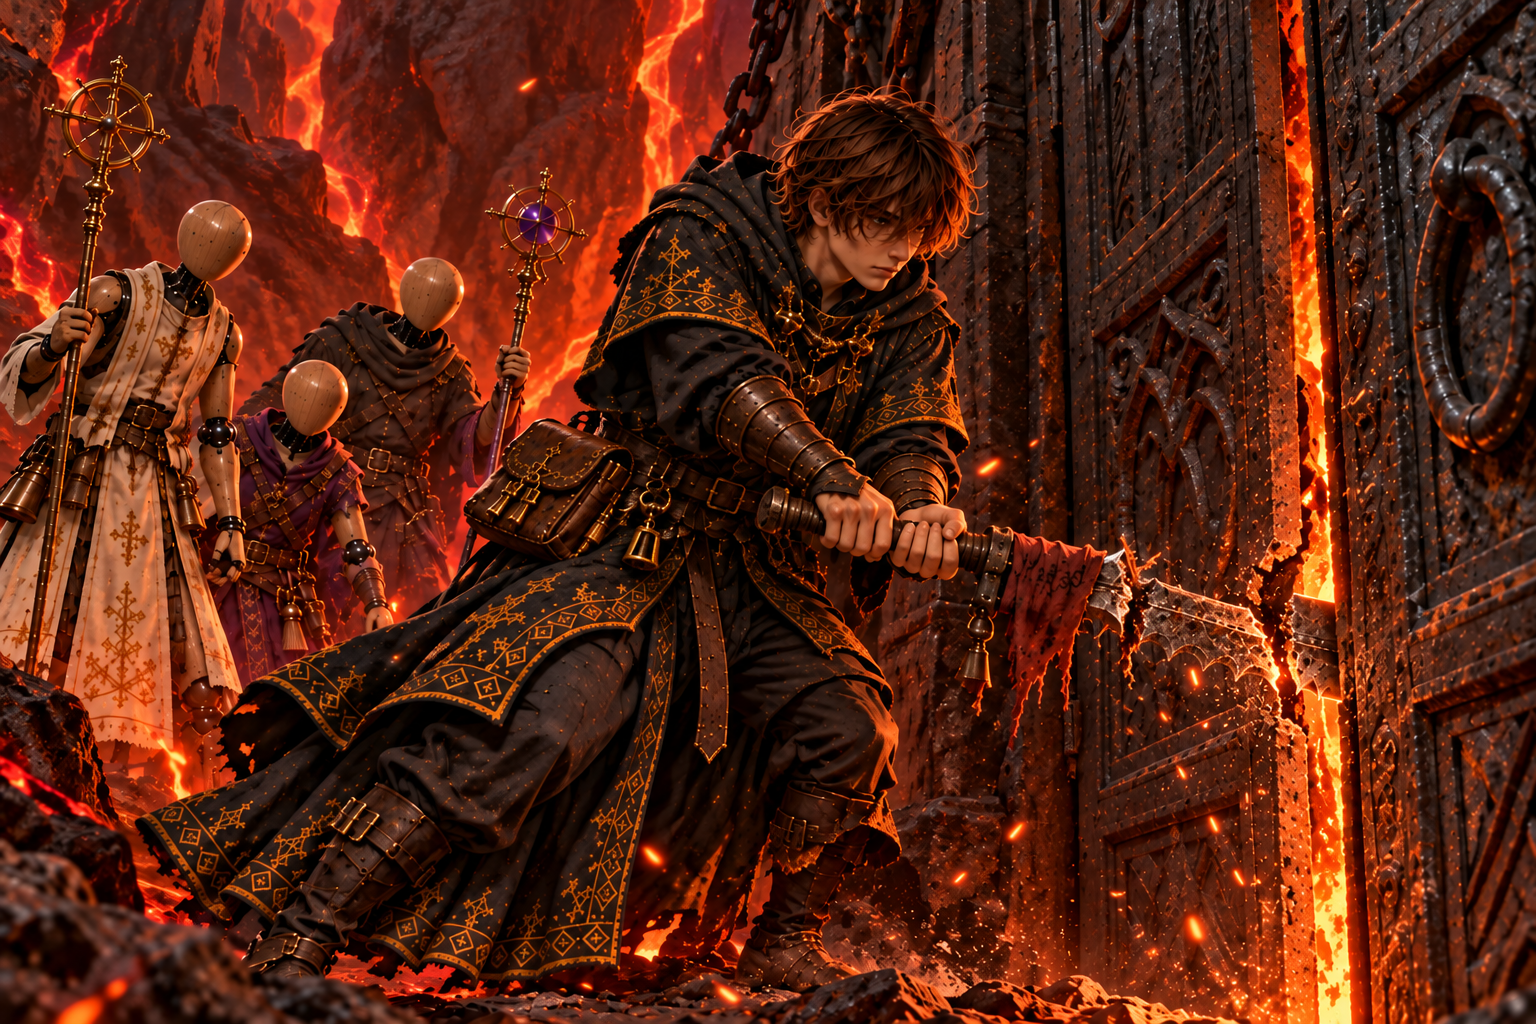
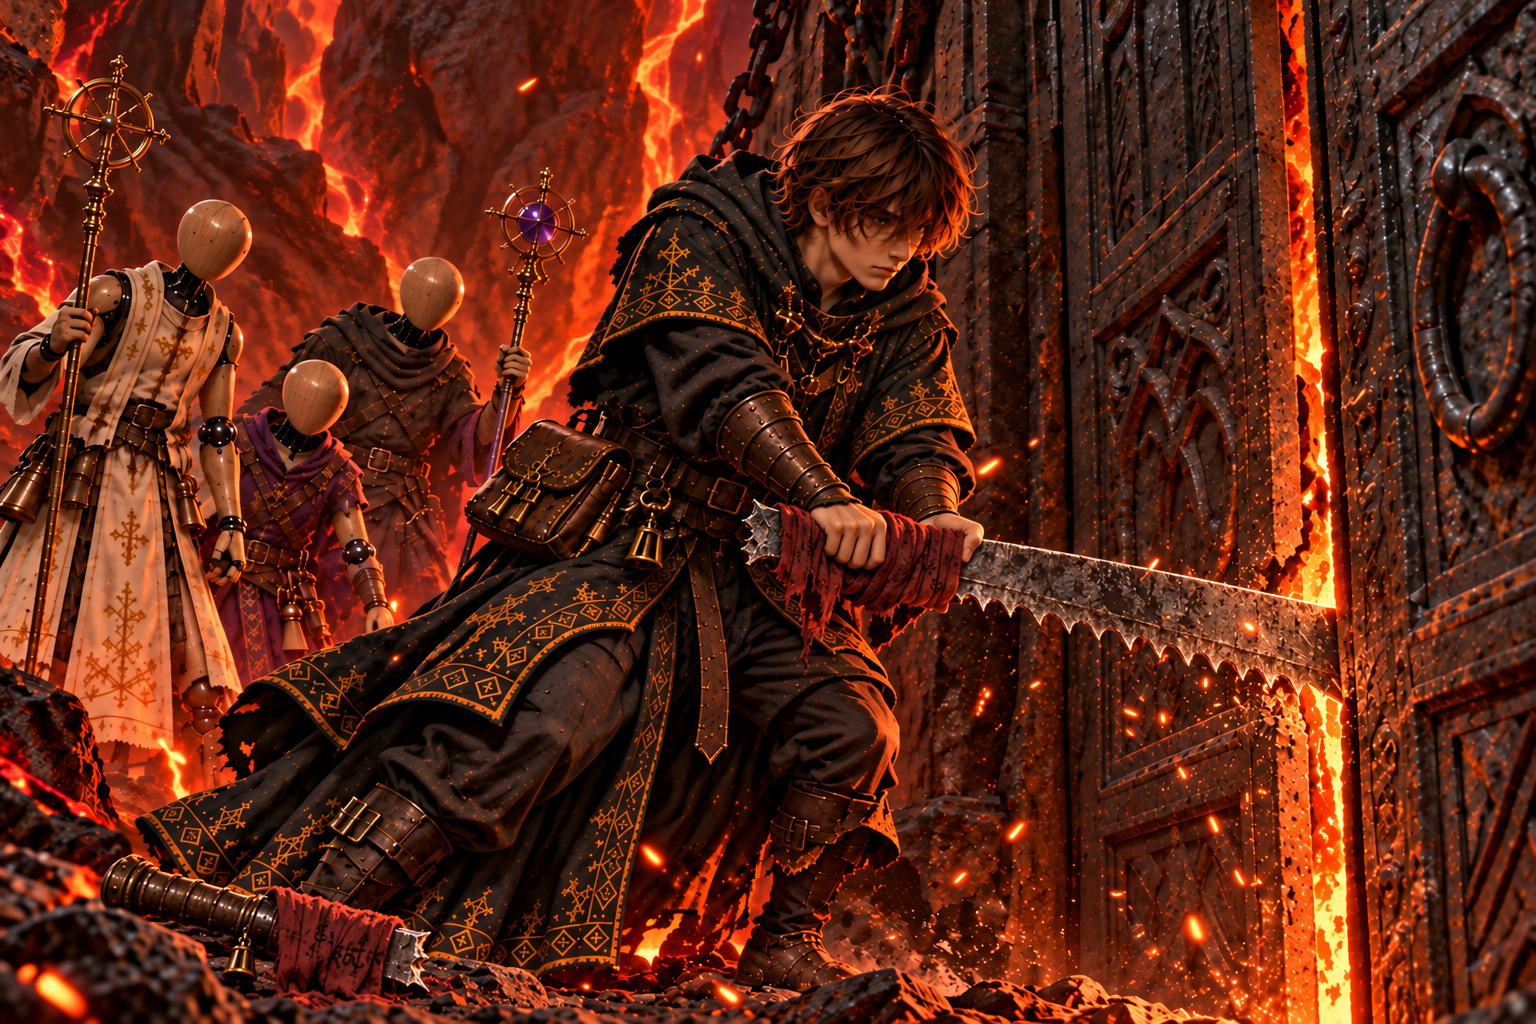
w18の折れた刃をてこに使う構図を修正

diff --git a/docs/art/codex-story-art-brief.md b/docs/art/codex-story-art-brief.md
@@ -397,10 +397,10 @@ Character reference sheet on a plain dark slate-blue background with soft even l
 ### 第五章「灼熱の洞」 ― 便2
 
 **w18_blade「手放された刃」** (師の手がかり / 迷宮「火を噴く地割れ」)
-- 本文の要点: 赤く脈打つ岩の奥の鉄の扉。扉の隙間に、のこぎりのように研いだ刃が突き立ち、根元から折れている。柄に焼け焦げた布、布に煤の字。弟子は折れた刃をてこにして扉を開ける。
-- 描くもの: 折れた刃 (折れ口がはっきり) / 柄の焦げた布 / 鉄の扉 / 刃で扉をこじる弟子。描かないもの: 師本人、扉の向こうの祭場の詳しい様子。
+- 本文の要点: 赤く脈打つ岩の奥の鉄の扉。のこぎりのように研いだ刃は根元で折れ、柄と分離している。柄に焼け焦げた布、布に煤の字。弟子は柄を脇に置き、残った長い刃を布越しに握って扉をこじる。手で握る位置から扉の支点までは一本につながった金属で、力が伝わるように描く。
+- 描くもの: 根元で折れた長い刃 (手から鉄扉までつながっている) / 脇に置いた柄と焦げた布 / 鉄の扉 / 刃を布越しに握って扉をこじる弟子。描かないもの: 折れた柄を握って分離した刃を動かす構図、師本人、扉の向こうの祭場の詳しい様子。
 ```text
-Deep inside a volcanic fissure cave whose rock walls glow and pulse red with magma veins, a massive rusted iron door is set into the rock. Jammed in the gap of the door is a long serrated saw-like blade, visibly SNAPPED near the hilt; its hilt is wrapped in a scorched cloth bearing soot scribbles. The apprentice (brown hair, charcoal cloak with restrained gold embroidery, leather satchel) braces against the door and levers it open using the broken blade, heat shimmer and drifting embers around. Two or three wooden party dolls with blank round heads wait behind in the red glow. Composition centers on the broken blade in the door gap.
+Deep inside a volcanic fissure cave whose rock walls glow and pulse red with magma veins, a massive rusted iron door is set into the rock. A long serrated saw-like blade has snapped at its base and is completely separated from its hilt. The detached hilt, still wrapped in scorched cloth with illegible soot scribbles, lies on a rock beside the apprentice. The apprentice (brown hair, charcoal cloak with restrained gold embroidery, leather satchel) grips the remaining LONG METAL BLADE itself through a thick folded protective cloth and uses it as a pry bar against the iron door jamb. The metal must be continuous and intact between his cloth-protected hands and the tip wedged into the door gap; the jagged broken base is behind his grip, outside the force-bearing span. He is NOT holding the detached hilt. Heat shimmer and drifting embers surround him. Two or three wooden party dolls with blank round heads wait behind in the red glow. Composition centers on the physically plausible blade lever and the separate broken hilt.
 ```
 
 **report_w18「床の下の熱」** (報告)

diff --git a/art/story-review/review/chapter5.md b/art/story-review/review/chapter5.md
@@ -35,8 +35,8 @@
 
 **指示書 (4章)**
 
-- 本文の要点: 赤く脈打つ岩の奥の鉄の扉。扉の隙間に、のこぎりのように研いだ刃が突き立ち、根元から折れている。柄に焼け焦げた布、布に煤の字。弟子は折れた刃をてこにして扉を開ける。
-- 描くもの: 折れた刃 (折れ口がはっきり) / 柄の焦げた布 / 鉄の扉 / 刃で扉をこじる弟子。描かないもの: 師本人、扉の向こうの祭場の詳しい様子。
+- 本文の要点: 赤く脈打つ岩の奥の鉄の扉。のこぎりのように研いだ刃は根元で折れ、柄と分離している。柄に焼け焦げた布、布に煤の字。弟子は柄を脇に置き、残った長い刃を布越しに握って扉をこじる。手で握る位置から扉の支点までは一本につながった金属で、力が伝わるように描く。
+- 描くもの: 根元で折れた長い刃 (手から鉄扉までつながっている) / 脇に置いた柄と焦げた布 / 鉄の扉 / 刃を布越しに握って扉をこじる弟子。描かないもの: 折れた柄を握って分離した刃を動かす構図、師本人、扉の向こうの祭場の詳しい様子。
 
 <a name="report_w18"></a>
 
